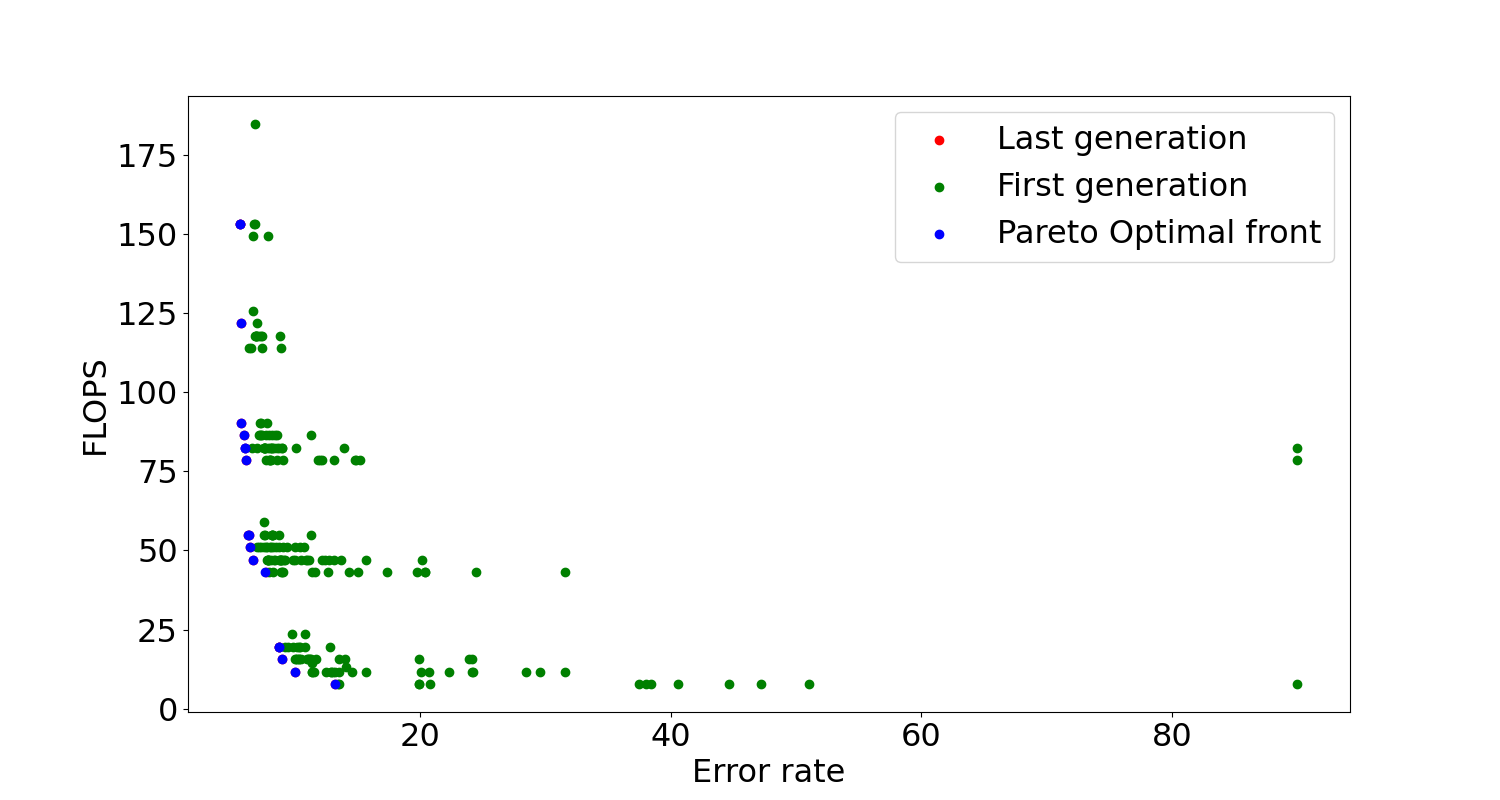
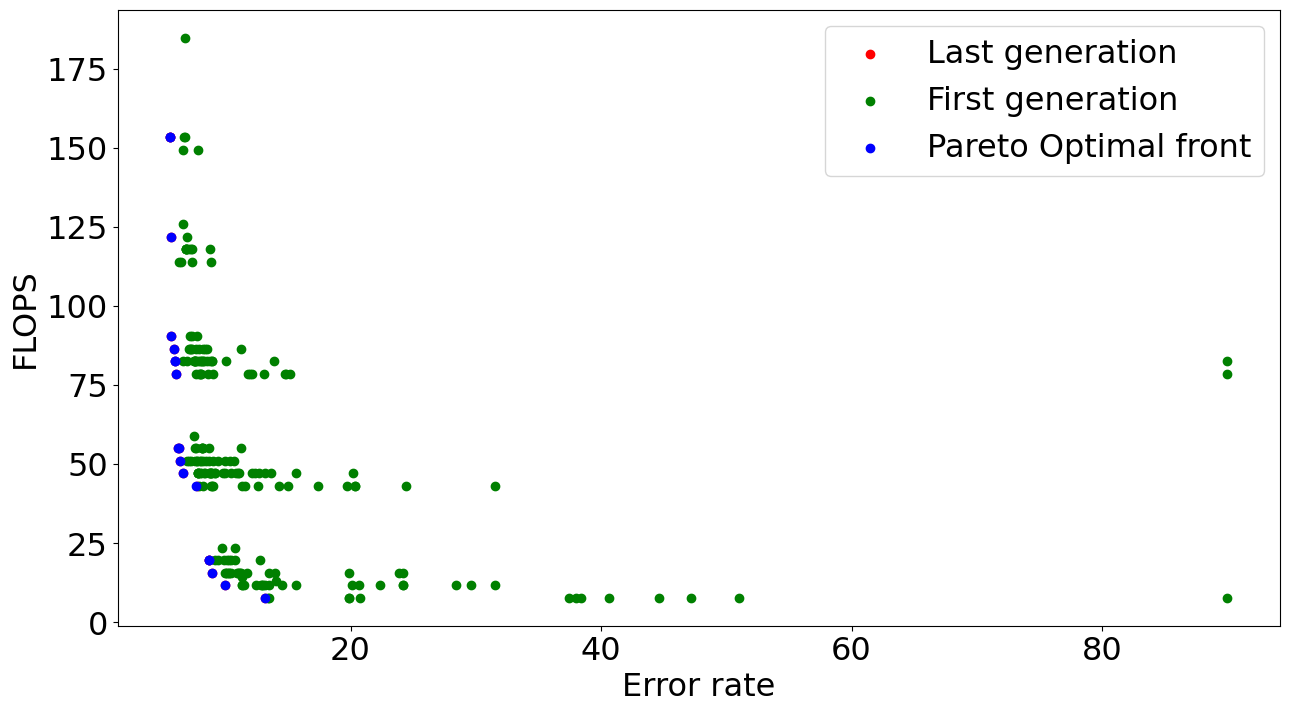
change layout

diff --git a/misc/visualize.py b/misc/visualize.py
@@ -25,8 +25,6 @@ def read_pickle(file):
 
 def visualize(dataset, res, all_pops):
   acc, flops = utils.read_file(dataset)
-  plt.rcParams.update({'font.size': 23})
-  plt.rcParams["figure.figsize"] = (15,8)
   fig = plt.figure()
   plt.xlabel("Error rate")
   plt.ylabel("FLOPS")
@@ -34,7 +32,7 @@ def visualize(dataset, res, all_pops):
   plt.scatter(all_pops[0][:,0], all_pops[0][:,1], c='green', label='First generation')
   plt.scatter(acc, flops, c='blue', label="Pareto Optimal front")
   plt.legend()
-  fig.savefig(f'img\\{dataset}.png')
+  fig.savefig(f'img\\{dataset}.png', bbox_inches='tight')
 
 
 def animation(dataset, all_pops,num_gen=50):
@@ -55,6 +53,9 @@ def animation(dataset, all_pops,num_gen=50):
     anim.save(f'img\\{dataset}.gif')
 
 def main():
+    plt.rcParams.update({'font.size': 23})
+    plt.rcParams["figure.figsize"] = (15,8)
+    plt.tight_layout()
     if args.dataset == 'cifar10' or args.dataset == 'cifar100' or args.dataset == 'imagenet':
         pass
     else:
